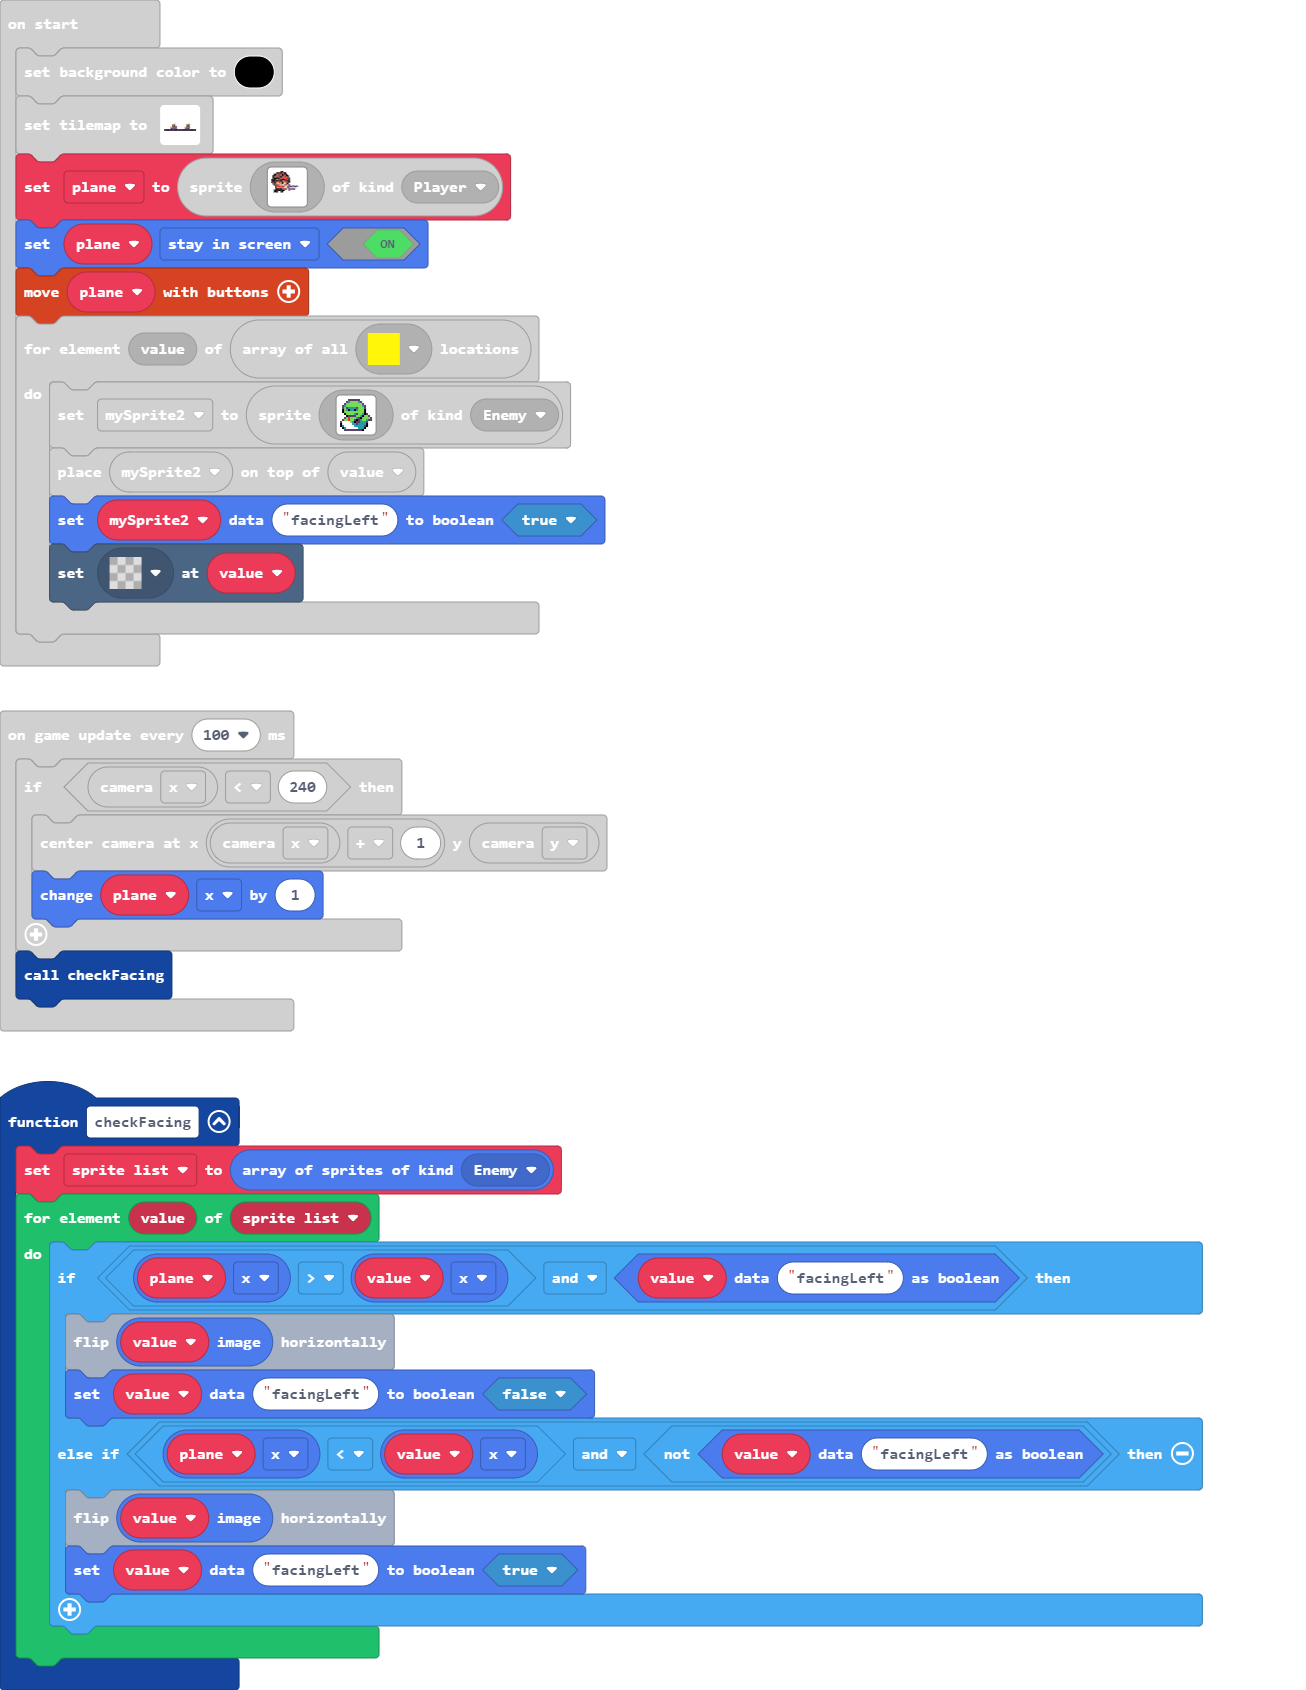
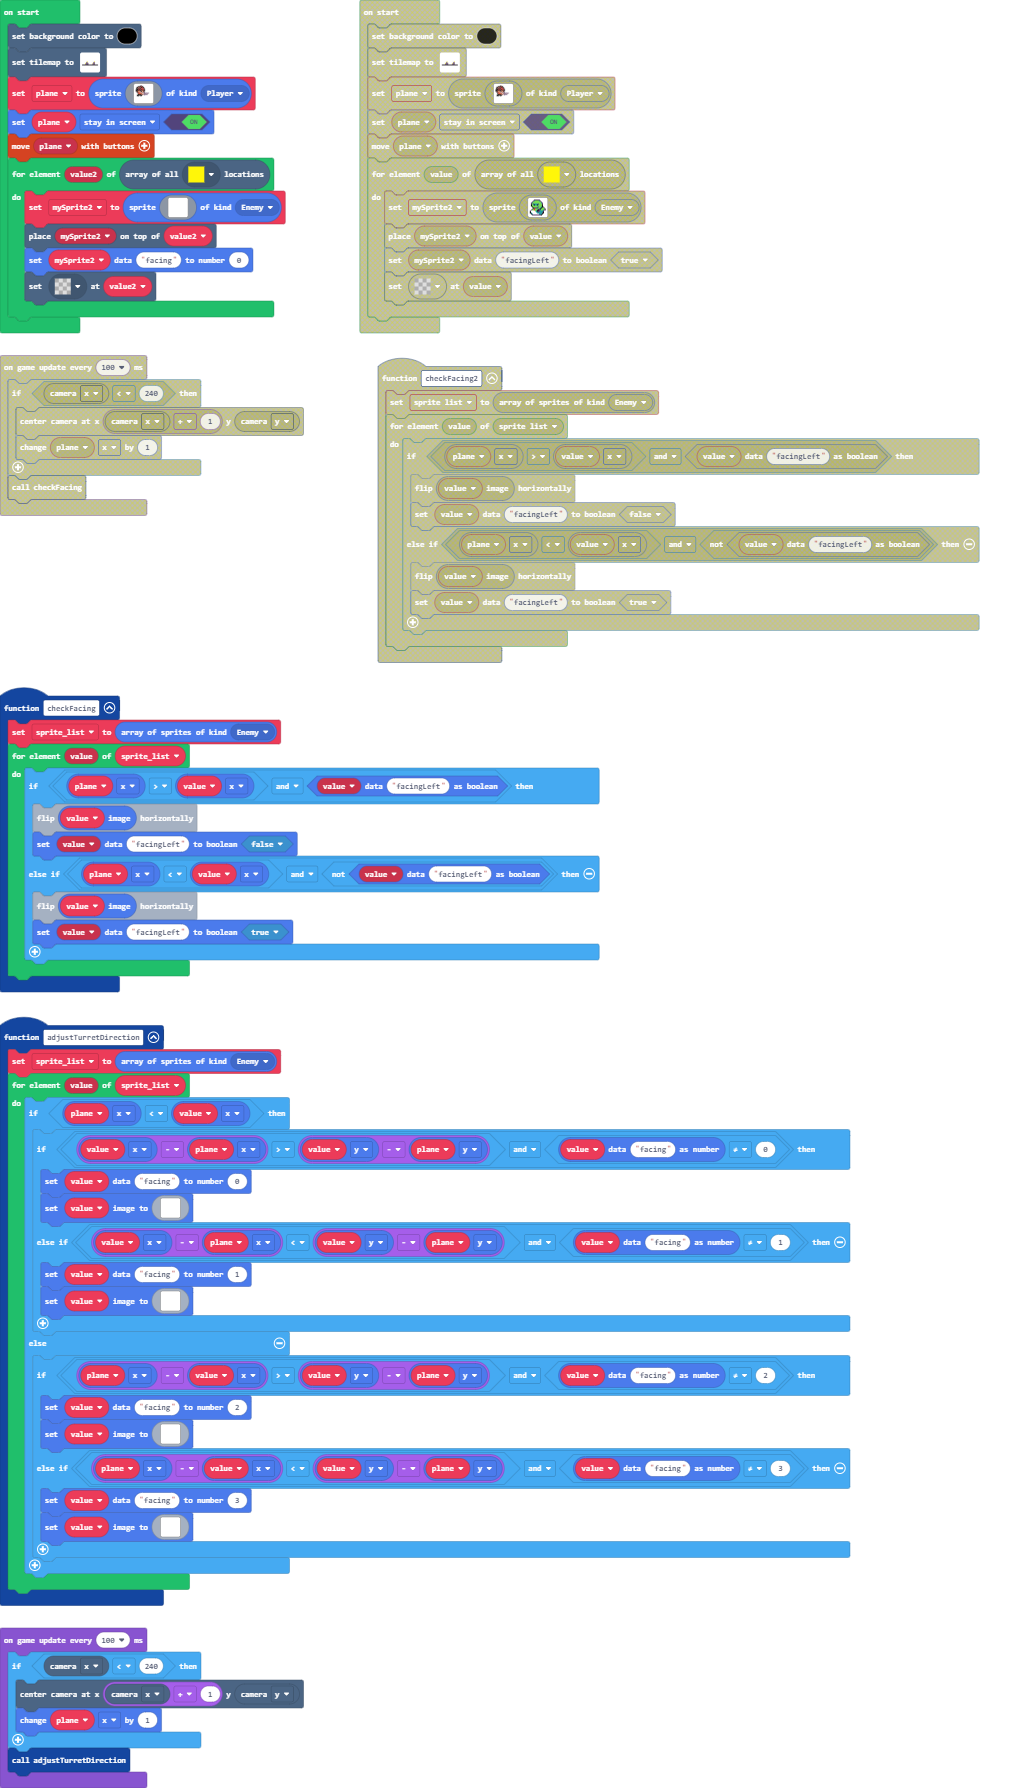
turret can aim 4 directions

diff --git a/main.ts b/main.ts
@@ -1,3 +1,93 @@
+function adjustTurretDirection () {
+    sprite_list = sprites.allOfKind(SpriteKind.Enemy)
+    for (let value of sprite_list) {
+        if (plane.x < value.x) {
+            if (value.x - plane.x > value.y - plane.y && sprites.readDataNumber(value, "facing") != 0) {
+                sprites.setDataNumber(value, "facing", 0)
+                value.setImage(img`
+                    . . . . . . . . . . . . . . . . 
+                    . . . . . . . . . . . . . . . . 
+                    . . . . . . . . . . . . . . . . 
+                    . . . . . . . . . . . . . . . . 
+                    . . . . . . . . . . . . . . . . 
+                    . . . . . . . . . . . . . . . . 
+                    . . . . . . . . . . . . . . . . 
+                    . . . . . . . . . . . . . . . . 
+                    . . . . . . . . . . . . . . . . 
+                    . . . . . . . . . . . . . . . . 
+                    1 1 1 . . 1 1 1 1 1 . . . . . . 
+                    1 1 1 1 1 1 1 1 1 1 1 1 . . . . 
+                    . 1 1 1 1 1 1 1 1 1 1 1 1 . . . 
+                    . . . 1 1 1 1 1 1 1 1 1 1 . . . 
+                    . . . 1 1 1 1 1 1 1 1 1 1 . . . 
+                    . . . 1 1 1 1 1 1 1 1 1 1 . . . 
+                    `)
+            } else if (value.x - plane.x < value.y - plane.y && sprites.readDataNumber(value, "facing") != 1) {
+                sprites.setDataNumber(value, "facing", 1)
+                value.setImage(img`
+                    . . . . . . . . . . . . . . . . 
+                    . . . . . . . . . . . . . . . . 
+                    . . . . . . . . . . . . . . . . 
+                    . . . . . . . . . . . . . . . . 
+                    . . . . . . . . . . . . . . . . 
+                    . . . . . . . . . . . . . . . . 
+                    . . . . . . . . . . . . . . . . 
+                    . . 1 1 . . . . . . . . . . . . 
+                    . . 1 1 1 . . . . . . . . . . . 
+                    . . . 1 1 1 . . . . . . . . . . 
+                    . . . . 1 1 1 1 1 1 . . . . . . 
+                    . . . . 1 1 1 1 1 1 1 1 . . . . 
+                    . . . 1 1 1 1 1 1 1 1 1 1 . . . 
+                    . . . 1 1 1 1 1 1 1 1 1 1 . . . 
+                    . . . 1 1 1 1 1 1 1 1 1 1 . . . 
+                    . . . 1 1 1 1 1 1 1 1 1 1 . . . 
+                    `)
+            }
+        } else {
+            if (plane.x - value.x > value.y - plane.y && sprites.readDataNumber(value, "facing") != 2) {
+                sprites.setDataNumber(value, "facing", 2)
+                value.setImage(img`
+                    . . . . . . . . . . . . . . . . 
+                    . . . . . . . . . . . . . . . . 
+                    . . . . . . . . . . . . . . . . 
+                    . . . . . . . . . . . . . . . . 
+                    . . . . . . . . . . . . . . . . 
+                    . . . . . . . . . . . . . . . . 
+                    . . . . . . . . . . . . . . . . 
+                    . . . . . . . . . . . . . . . . 
+                    . . . . . . . . . . . . . . . . 
+                    . . . . . . . . . . . . . . . . 
+                    . . . . . 1 1 1 1 1 . . . 1 1 1 
+                    . . . . 1 1 1 1 1 1 1 1 1 1 1 1 
+                    . . . 1 1 1 1 1 1 1 1 1 1 1 1 . 
+                    . . . 1 1 1 1 1 1 1 1 1 . . . . 
+                    . . . 1 1 1 1 1 1 1 1 1 . . . . 
+                    . . . 1 1 1 1 1 1 1 1 1 . . . . 
+                    `)
+            } else if (plane.x - value.x < value.y - plane.y && sprites.readDataNumber(value, "facing") != 3) {
+                sprites.setDataNumber(value, "facing", 3)
+                value.setImage(img`
+                    . . . . . . . . . . . . . . . . 
+                    . . . . . . . . . . . . . . . . 
+                    . . . . . . . . . . . . . . . . 
+                    . . . . . . . . . . . . . . . . 
+                    . . . . . . . . . . . . . . . . 
+                    . . . . . . . . . . . . . . . . 
+                    . . . . . . . . . . . . . . . . 
+                    . . . . . . . . . . . . 1 1 . . 
+                    . . . . . . . . . . . 1 1 1 . . 
+                    . . . . . . . . . 1 1 1 1 . . . 
+                    . . . . . 1 1 1 1 1 1 1 . . . . 
+                    . . . . 1 1 1 1 1 1 1 1 . . . . 
+                    . . . 1 1 1 1 1 1 1 1 1 1 . . . 
+                    . . . 1 1 1 1 1 1 1 1 1 1 . . . 
+                    . . . 1 1 1 1 1 1 1 1 1 1 . . . 
+                    . . . 1 1 1 1 1 1 1 1 1 1 . . . 
+                    `)
+            }
+        }
+    }
+}
 function checkFacing () {
     sprite_list = sprites.allOfKind(SpriteKind.Enemy)
     for (let value of sprite_list) {
@@ -52,33 +142,33 @@ plane = sprites.create(img`
     `, SpriteKind.Player)
 plane.setFlag(SpriteFlag.StayInScreen, true)
 controller.moveSprite(plane)
-for (let value of tiles.getTilesByType(myTiles.tile1)) {
+for (let value2 of tiles.getTilesByType(myTiles.tile1)) {
     mySprite2 = sprites.create(img`
-        . . . . c c c c c c . . . . . . 
-        . . . c 6 7 7 7 7 6 c . . . . . 
-        . . c 7 7 7 7 7 7 7 7 c . . . . 
-        . c 6 7 7 7 7 7 7 7 7 6 c . . . 
-        . c 7 c 6 6 6 6 c 7 7 7 c . . . 
-        . f 7 6 f 6 6 f 6 7 7 7 f . . . 
-        . f 7 7 7 7 7 7 7 7 7 7 f . . . 
-        . . f 7 7 7 7 6 c 7 7 6 f c . . 
-        . . . f c c c c 7 7 6 f 7 7 c . 
-        . . c 7 2 7 7 7 6 c f 7 7 7 7 c 
-        . c 7 7 2 7 7 c f c 6 7 7 6 c c 
-        c 1 1 1 1 7 6 f c c 6 6 6 c . . 
-        f 1 1 1 1 1 6 6 c 6 6 6 6 f . . 
-        f 6 1 1 1 1 1 6 6 6 6 6 c f . . 
-        . f 6 1 1 1 1 1 1 6 6 6 f . . . 
-        . . c c c c c c c c c f . . . . 
+        . . . . . . . . . . . . . . . . 
+        . . . . . . . . . . . . . . . . 
+        . . . . . . . . . . . . . . . . 
+        . . . . . . . . . . . . . . . . 
+        . . . . . . . . . . . . . . . . 
+        . . . . . . . . . . . . . . . . 
+        . . . . . . . . . . . . . . . . 
+        . . . . . . . . . . . . . . . . 
+        . . . . . . . . . . . . . . . . 
+        . . . . . . . . . . . . . . . . 
+        1 1 1 . . 1 1 1 1 1 . . . . . . 
+        1 1 1 1 1 1 1 1 1 1 1 1 . . . . 
+        . 1 1 1 1 1 1 1 1 1 1 1 1 . . . 
+        . . . 1 1 1 1 1 1 1 1 1 1 . . . 
+        . . . 1 1 1 1 1 1 1 1 1 1 . . . 
+        . . . 1 1 1 1 1 1 1 1 1 1 . . . 
         `, SpriteKind.Enemy)
-    tiles.placeOnTile(mySprite2, value)
-    sprites.setDataBoolean(mySprite2, "facingLeft", true)
-    tiles.setTileAt(value, myTiles.transparency16)
+    tiles.placeOnTile(mySprite2, value2)
+    sprites.setDataNumber(mySprite2, "facing", 0)
+    tiles.setTileAt(value2, myTiles.transparency16)
 }
 game.onUpdateInterval(100, function () {
     if (scene.cameraProperty(CameraProperty.X) < 240) {
         scene.centerCameraAt(scene.cameraProperty(CameraProperty.X) + 1, scene.cameraProperty(CameraProperty.Y))
         plane.x += 1
     }
-    checkFacing()
+    adjustTurretDirection()
 })
